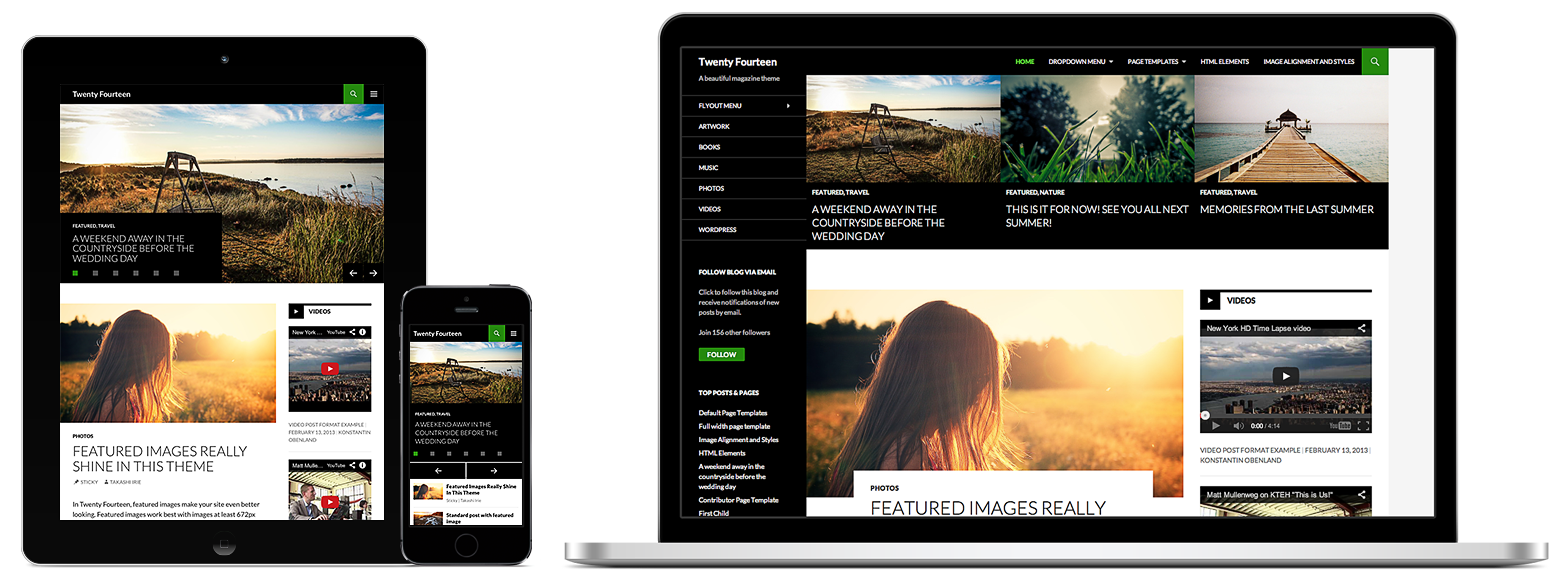
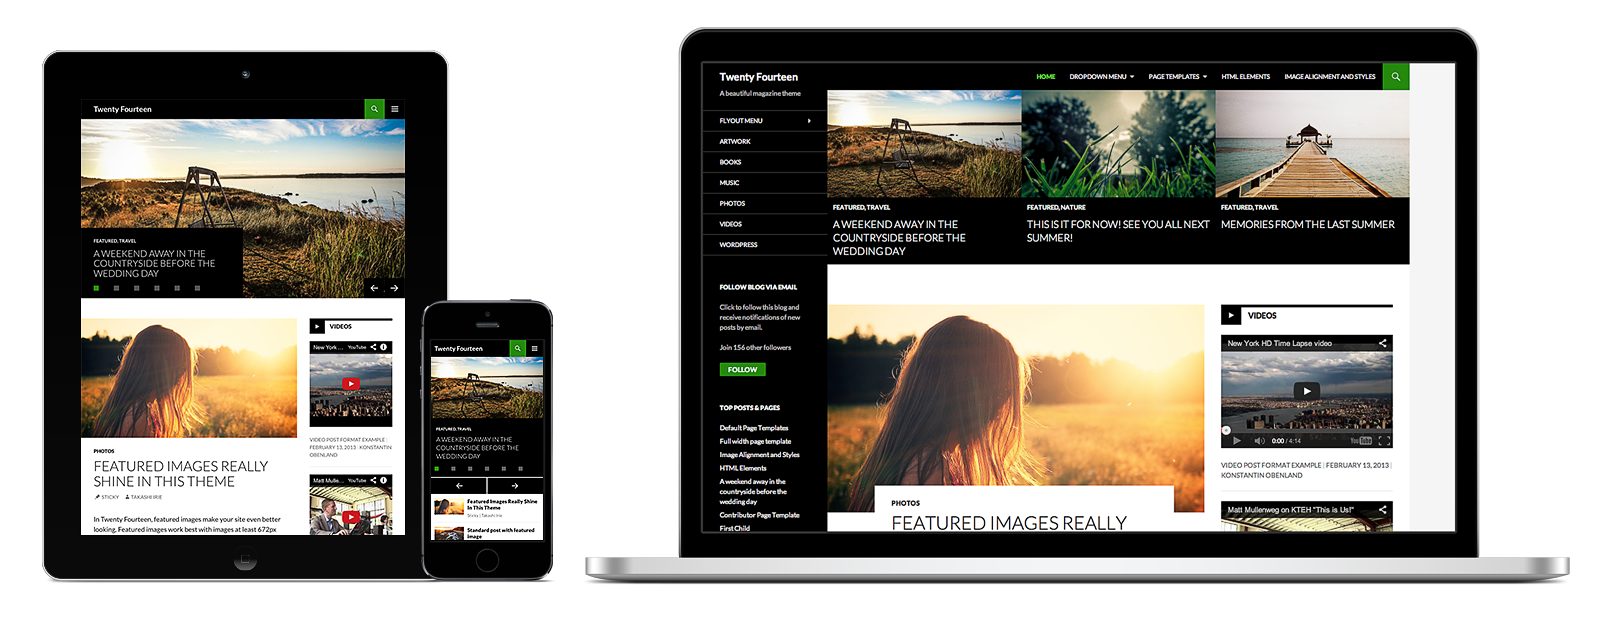
Updates to the About page:
- Better screenshots
- Align screenshots with the dividers between sections
- Increase body text size
- Add a mention of Twenty Fourteen by name
- i18nalize 'Now with more color'
- Replace &rsquo; with &#8217;

See #26387.

git-svn-id: https://develop.svn.wordpress.org/trunk@26719 602fd350-edb4-49c9-b593-d223f7449a82

diff --git a/src/wp-admin/css/wp-admin.css b/src/wp-admin/css/wp-admin.css
@@ -7804,6 +7804,7 @@ body.press-this {
 
 .about-wrap p {
 	line-height: 1.6em;
+	font-size: 14px;
 }
 
 .about-wrap h1 {
@@ -7831,10 +7832,10 @@ body.press-this {
 	font-size: 24px;
 }
 
-.about-wrap .changelog h2 {
+.about-wrap .changelog h2.about-headline-callout {
 	margin: 1.4em 0 0;
-	font-size: 2.1em;
 	line-height: 1.3;
+	font-weight: 600;
 	text-align: center;
 }
 
@@ -7846,6 +7847,7 @@ body.press-this {
 
 .about-wrap .feature-section h4 {
 	margin: 1.4em 0 0.6em 0;
+	font-size: 1.2em;
 }
 
 .about-wrap .feature-section p {
@@ -7857,6 +7859,27 @@ body.press-this {
 	font-size: 14px;
 }
 
+/* 3.8 Images */
+
+.about-wrap .about-colors-img,
+.about-wrap .about-themes-img {
+	bottom: -25px;
+}
+
+.about-wrap .about-overview-img {
+	border-bottom: 1px solid #ddd;
+}
+
+.about-wrap hr.flushtopdivider {
+	margin-top: 0;
+}
+
+.about-colors-img img,
+.about-themes-img img {
+	margin: 0 0;
+	padding: 0;
+	line-height: 1;
+}
 
 /* Point Releases */
 
@@ -7936,9 +7959,12 @@ body.press-this {
 
 .about-wrap .feature-section.two-col div {
 	position: relative;
-	width: 47%;
-	margin-right: 4.999999999%;
+	width: 50%;
 	float: left;
+}
+
+.about-wrap .feature-section.two-col div p {
+	margin-right: 3%;
 }
 
 .about-wrap .feature-section.three-col div {

diff --git a/src/wp-admin/css/colors.css b/src/wp-admin/css/colors.css
@@ -1792,12 +1792,10 @@ h2.nav-tab-wrapper, h3.nav-tab-wrapper {
 	border-bottom-color: #eee;
 }
 
-.about-wrap h3 {
-	color: #333;
-}
-
-.about-wrap .feature-section h4 {
-	color: #464646;
+.about-wrap h2,
+.about-wrap h3,
+.about-wrap h4 {
+	color: #222;
 }
 
 .about-wrap .feature-section .col-2:before,

diff --git a/src/wp-admin/about.php b/src/wp-admin/about.php
@@ -36,8 +36,8 @@ include( ABSPATH . 'wp-admin/admin-header.php' );
 </h2>
 
 <div class="changelog">
-	<h2><?php _e( 'Introducing a new, modern admin design' ); ?></h2>
-	<img src="<?php echo admin_url( 'images/about-overview.png' ); ?>" />
+	<h2 class="about-headline-callout"><?php _e( 'Introducing a new, modern admin design' ); ?></h2>
+	<img class="about-overview-img" src="<?php echo admin_url( 'images/about-overview.png' ); ?>" />
 
 	<div class="feature-section col three-col about-updates">
 		<div class="col-1">
@@ -58,7 +58,7 @@ include( ABSPATH . 'wp-admin/admin-header.php' );
 	</div>
 </div>
 
-<hr />
+<hr>
 
 <!-- Image example -->
 <!-- <img alt="" src="<?php echo admin_url( 'images/about-search-2x.png' ); ?>" /> --> 
@@ -69,21 +69,21 @@ include( ABSPATH . 'wp-admin/admin-header.php' );
 			<h3><?php _e( 'Take WordPress with you anywhere with our responsive design' ); ?></h3>
 			<p><?php _e( 'The WordPress admin is now completely responsive: you can work on your website easily from your smartphone or tablet. The full power of WordPress is at your fingertips, even when you’re on the go.' ); ?></p>
 			<h4><?php _e( 'Naturally HiDPI' ); ?></h4>
-			<p><?php _e( 'No more blurry edges — with the inclusion of vector icons and graphics, the admin is now entirely HiDPI, so you get the best viewing experience no matter what kind of computer or mobile device you use.' ); ?></p>
+			<p><?php _e( 'No more blurry edges &#8212; with the inclusion of vector icons and graphics, the admin is now entirely HiDPI, so you get the best viewing experience no matter what kind of computer or mobile device you use.' ); ?></p>
 		</div>
-		<div class="last-feature">
+		<div class="last-feature about-colors-img">
 			<img src="<?php echo admin_url( 'images/about-colors.png' ); ?>" />
 		</div>
 	</div>
 </div>
 
-<hr />
+<hr class="flushtopdivider">
 
 <div class="changelog about-colors">
 	<div class="feature-section col one-col">
 		<div>
-			<h3>Now with more color</h3>
-			<p><?php _e( 'Your admin is not longer monochromatic — we&rsquo;ve brought some more color to keep it looking fresh. You now have the option of four different default color schemes.' ); ?></p>
+			<h3><?php _e( 'Now with more color' ); ?></h3>
+			<p><?php _e( 'Your admin is not longer monochromatic &#8212; we&#8217;ve brought some more color to keep it looking fresh. You now have the option of four different default color schemes.' ); ?></p>
 			<p><?php _e( 'Try them out below:' ); ?></p>
 			<img src="https://i.cloudup.com/NBlGusRk0H.png" style="border: 2px solid red; max-width: 99%; margin: 0;" />
 			<p><?php _e( 'You can change your color scheme at any time from your profile page.' ); ?></p>
@@ -91,7 +91,7 @@ include( ABSPATH . 'wp-admin/admin-header.php' );
 	</div>
 </div>
 
-<hr />
+<hr>
 
 <div class="changelog">
 	<div class="feature-section col two-col">
@@ -105,28 +105,28 @@ include( ABSPATH . 'wp-admin/admin-header.php' );
 			<h4><?php _e( 'Easier updates' ); ?></h4>
 			<p><?php _e( 'Identify immediately when a theme update is available.' ); ?></p>				
 		</div>
-		<div class="last-feature">
+		<div class="last-feature about-themes-img">
 			<img src="<?php echo admin_url( 'images/about-themes.png' ); ?>" />
 		</div>
 	</div>
 </div>
 
-<hr />
+<hr class="flushtopdivider">
 
 <div class="changelog">
-	<h2><?php _e( 'Sleek New Magazine Theme' ); ?></h2>
+	<h2 class="about-headline-callout"><?php _e( 'Twenty Fourteen, A Sleek New Magazine Theme' ); ?></h2>
 	<img src="<?php echo admin_url( 'images/about-twentyfourteen.png' ); ?>" />
 
 	<div class="feature-section col one-col">
 		<div>
 			<h3><?php _e( 'Our new default theme lets you create a responsive magazine website with an elegant, modern design.' ); ?></h3>
-			<p><?php _e( 'Feature your favorite homepage content in either a grid or a slider. Use the three widget areas to customize your website, and change your content&rsquo;s layout with a full width page template and a contributor page to show of your authors.' ); ?></p>
+			<p><?php _e( 'Feature your favorite homepage content in either a grid or a slider. Use the three widget areas to customize your website, and change your content&#8217;s layout with a full width page template and a contributor page to show of your authors.' ); ?></p>
 			<p><?php _e( 'Creating a magazine website with WordPress has never been easier.' ); ?></p>
 		</div>
 	</div>
 </div>
 
-<hr />
+<hr>
 
 <div class="changelog">
 	<h3><?php _e( 'Under the Hood' ); ?></h3>
